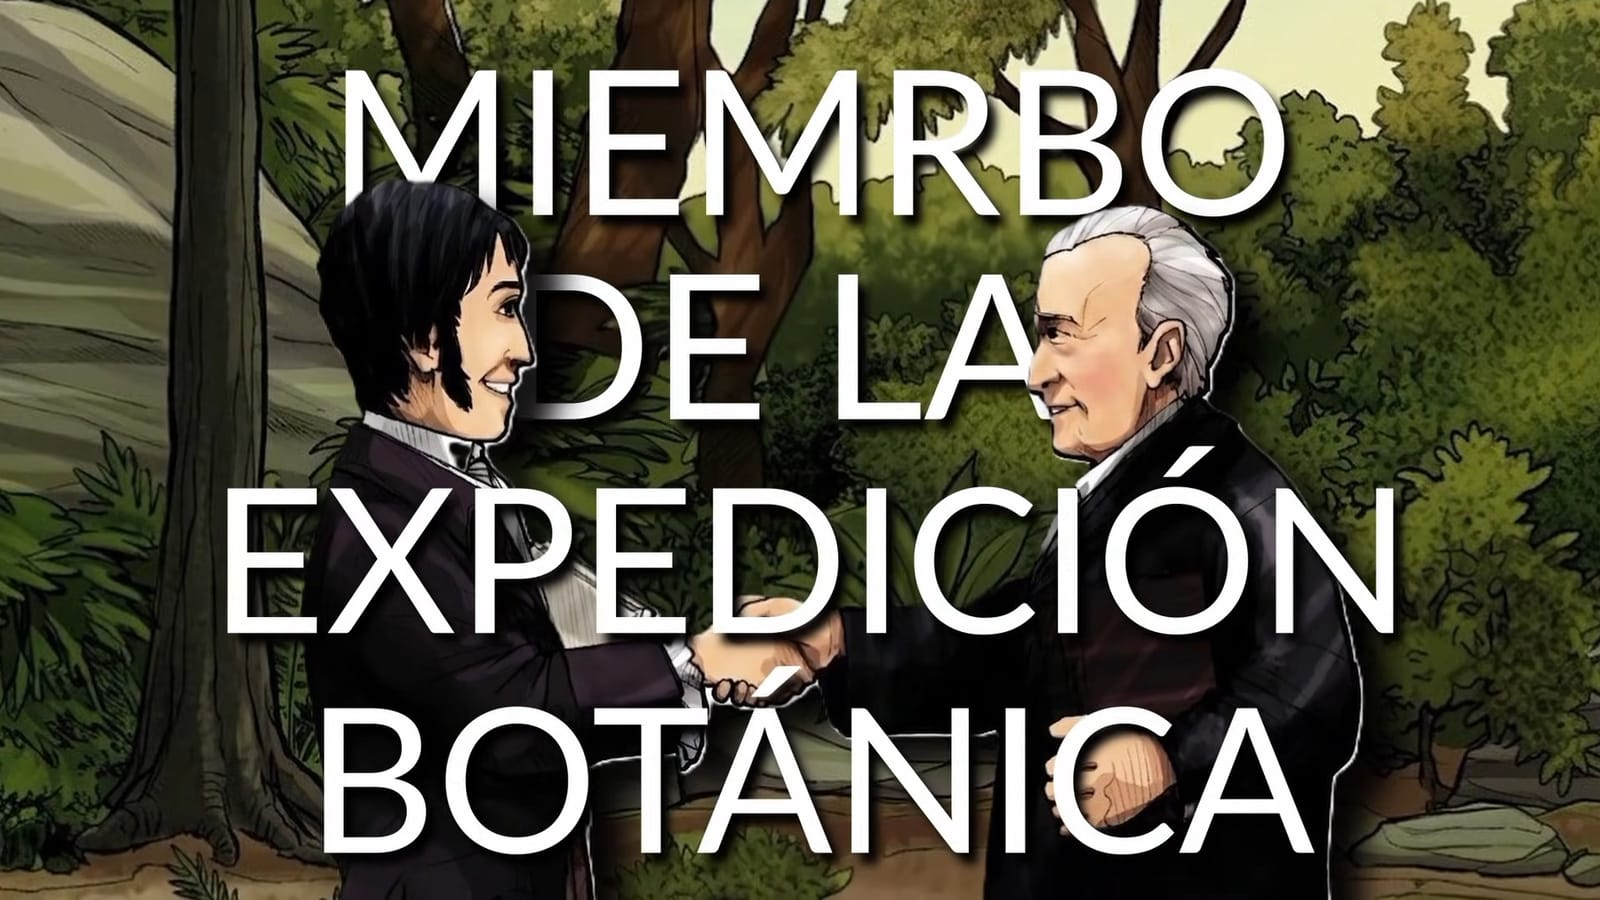
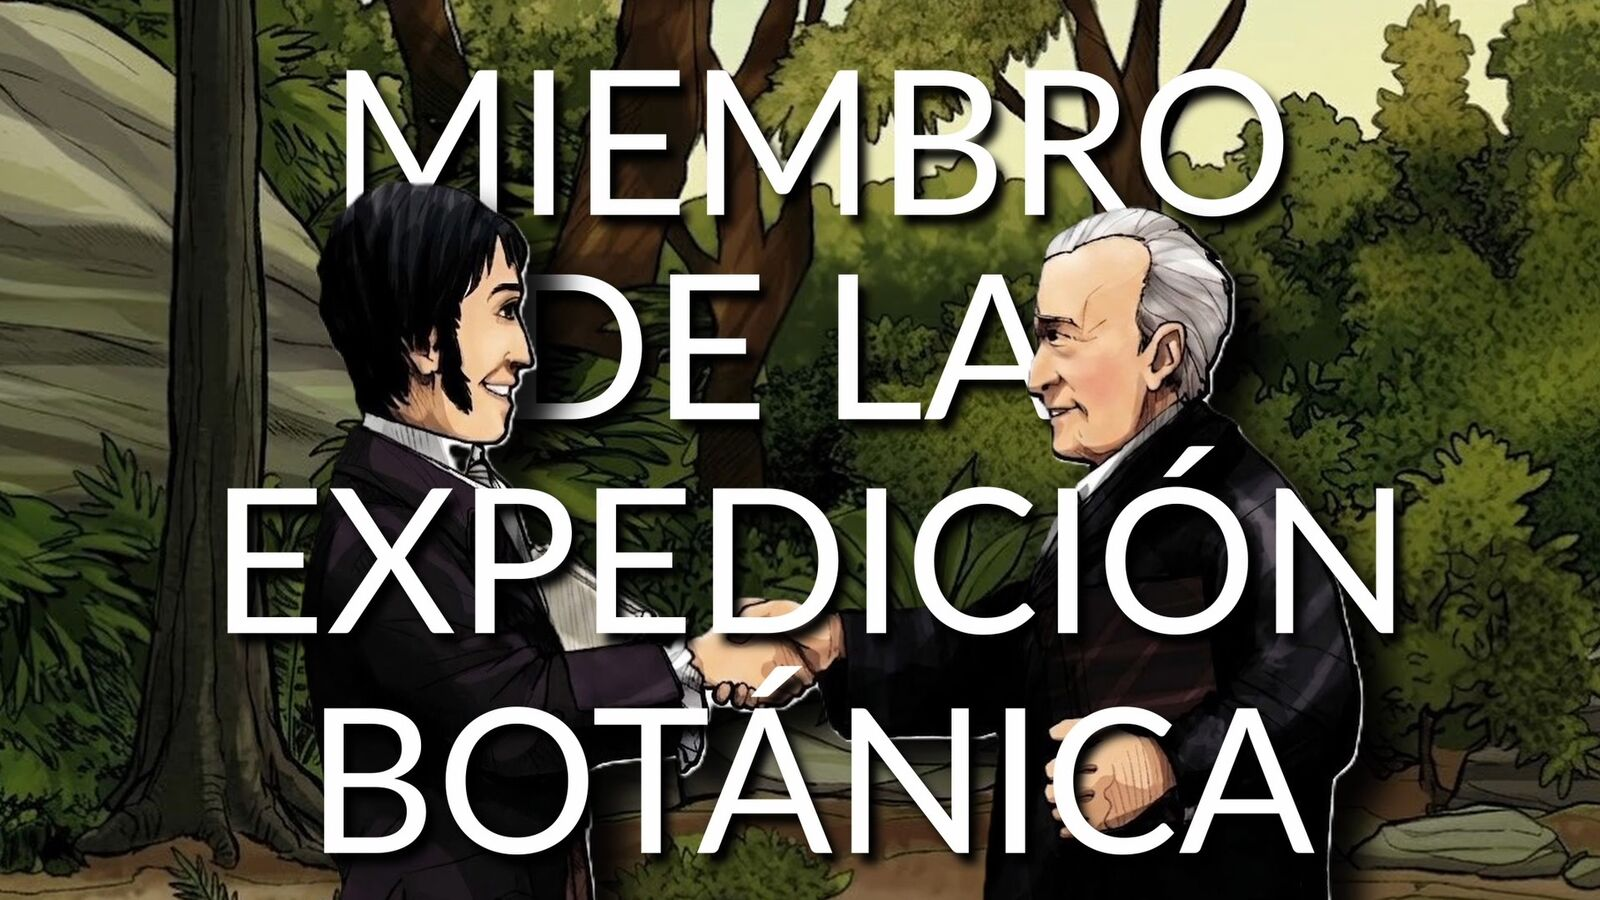
content: use corrected Hitos video/still and new reel, rewrite hero lede
- Point Hitos de Caldas to the corrected video and replace its second still
- Point the hero reel to the new version without the typo
- Rewrite the hero lede to describe the work rather than list verbs

Claude-Session: https://claude.ai/code/session_01DmG9zSThZubmnKqFCMvpTc

diff --git a/docs/COPY.md b/docs/COPY.md
@@ -7,7 +7,7 @@ Criterios: verbo de acción + qué + resultado; datos reales del autor; sin clic
 
 | Campo | Antes | Después |
 |---|---|---|
-| `lede` | Estudiante de último semestre de Ingeniería en Multimedia. He editado y animado piezas educativas para la Universidad Distrital, institucionales para la UMNG y videos para YouTube. | Estudiante de último semestre de Ingeniería en Multimedia. Edito y animo video educativo, institucional y para YouTube, y he trabajado para la Universidad Distrital, la UMNG y el canal @ryugamedev. |
+| `lede` | Estudiante de último semestre de Ingeniería en Multimedia. He editado y animado piezas educativas para la Universidad Distrital, institucionales para la UMNG y videos para YouTube. | Estudiante de último semestre de Ingeniería en Multimedia. Convierto guion, narración y material en bruto en videos con ritmo y claridad, para la Universidad Distrital, la UMNG y creadores de YouTube. |
 | `about` | • Estudiante de ingeniería en multimedia con enfoque en producción audiovisual, postproducción y creación de contenido digital para medios interactivos. Formación en edición de video, motion graphics y modelado 3D, orientada al desarrollo de piezas audiovisuales con criterio narrativo, visual y comunicativo.<br>• Capacidad para integrar herramientas audiovisuales, diseño digital y tecnologías multimedia en flujos de producción creativos, transformando ideas y requerimientos en experiencias visuales dinámicas e innovadoras.<br>• Con habilidades en adaptabilidad, aprendizaje rápido y resolución de problemas aplicadas a proyectos multimedia. Utilizando software como Adobe Premiere Pro, DaVinci Resolve, Adobe After Effects, Blender y Figma para transformar ideas y requerimientos en experiencias visuales innovadoras e interactivas. | • Estoy en décimo semestre de Ingeniería en Multimedia en la Universidad Militar Nueva Granada y busco mis prácticas como editor de video, en Bogotá o en remoto.<br>• Mi fuerte es la edición y la postproducción: armar el ritmo de una pieza, sincronizar la imagen con la narración y la música, y dejar el audio listo para publicar. Lo complemento con motion graphics en After Effects y DaVinci Resolve, y con animación 3D en Blender.<br>• He hecho videos educativos para el IEIE de la Universidad Distrital con plazos de menos de una semana, la cortinilla de los 25 años de mi programa y la edición de un video de 15 minutos para un creador de contenido de videojuegos. |
 | `stats` | **3.8k** — vistas en el video que edité para @ryugamedev<br>**< 1 sem.** — por video educativo entregado al IEIE (Universidad Distrital)<br>**5.0** — de nota en 3 proyectos académicos, uno con 1.er lugar | **3.8k** — vistas del video de 15 minutos que edité para @ryugamedev<br>**< 1 sem.** — por video educativo entregado al IEIE de la Universidad Distrital<br>**5.0** — de nota en 3 proyectos académicos, uno con el primer lugar de la clase |
 

diff --git a/docs/AUDIT.md b/docs/AUDIT.md
@@ -341,6 +341,6 @@ El antes/después completo, campo por campo, está en [`docs/COPY.md`](./COPY.md
 - **C10/C11:** fases del video de Ryu reescritas; audio "normalizado a −14 LUFS (el estándar de YouTube)".
 - **A8:** cada fotograma de la galería tiene texto alternativo descriptivo (campo `stillAlts`), escrito mirando la imagen.
 
-Hallazgo para el autor: el fotograma 2 de "Hitos de Francisco José de Caldas" muestra el texto **"MIEMRBO DE LA EXPEDICIÓN BOTÁNICA"** (errata dentro del video; se corrige en el proyecto de edición, no en el sitio).
+Hallazgo: el video de "Hitos de Francisco José de Caldas" tenía la errata **"MIEMRBO DE LA EXPEDICIÓN BOTÁNICA"**. *Resuelto:* el autor publicó una versión corregida; el sitio enlaza el nuevo video y usa el fotograma corregido. También se actualizó el link del reel (versión sin el error) y se reescribió la frase del hero.
 
 Verificación: lint y build OK, 51/51 pruebas e2e (axe sin violaciones en ambos temas).
